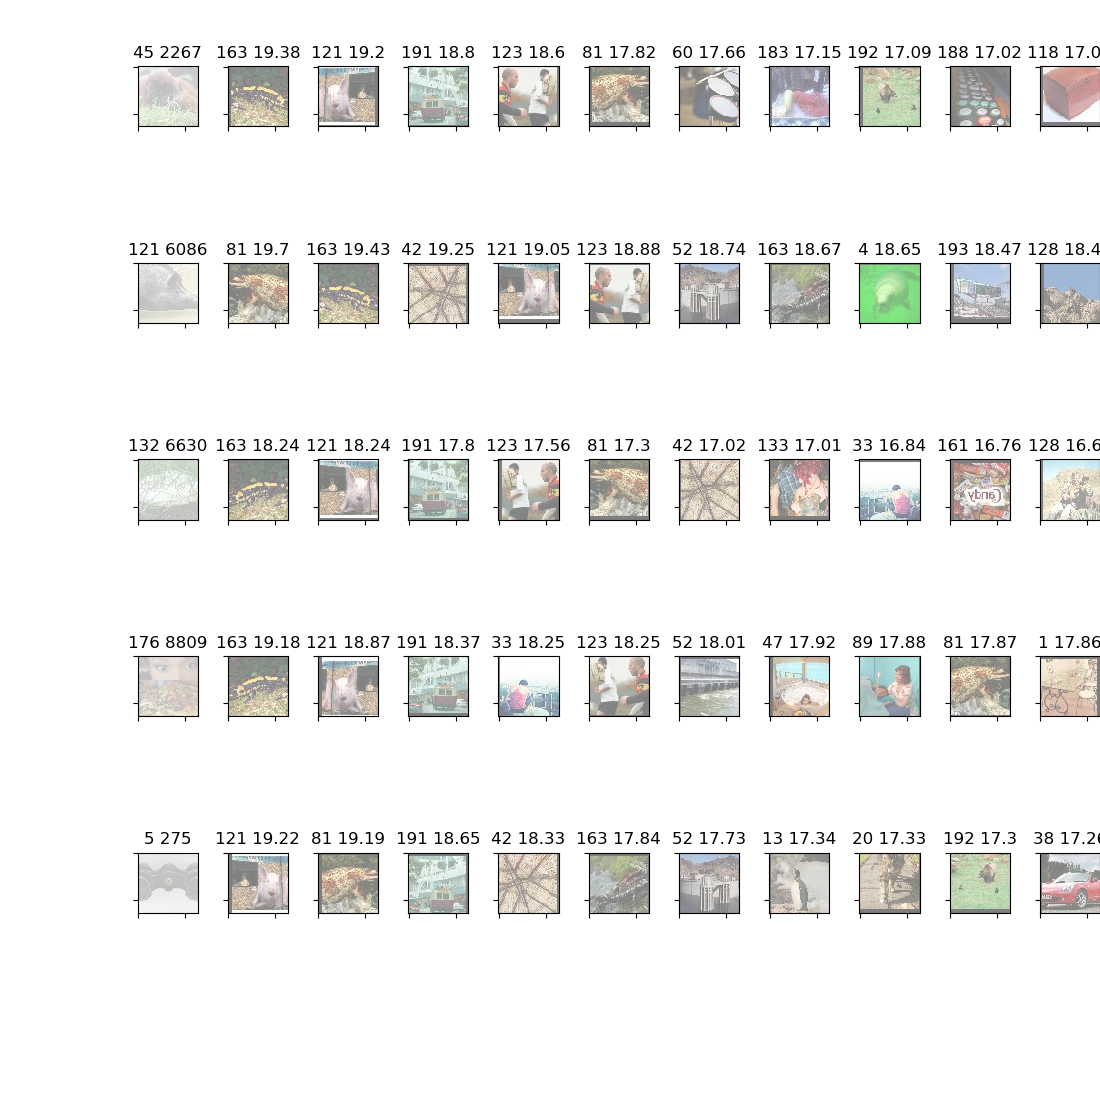
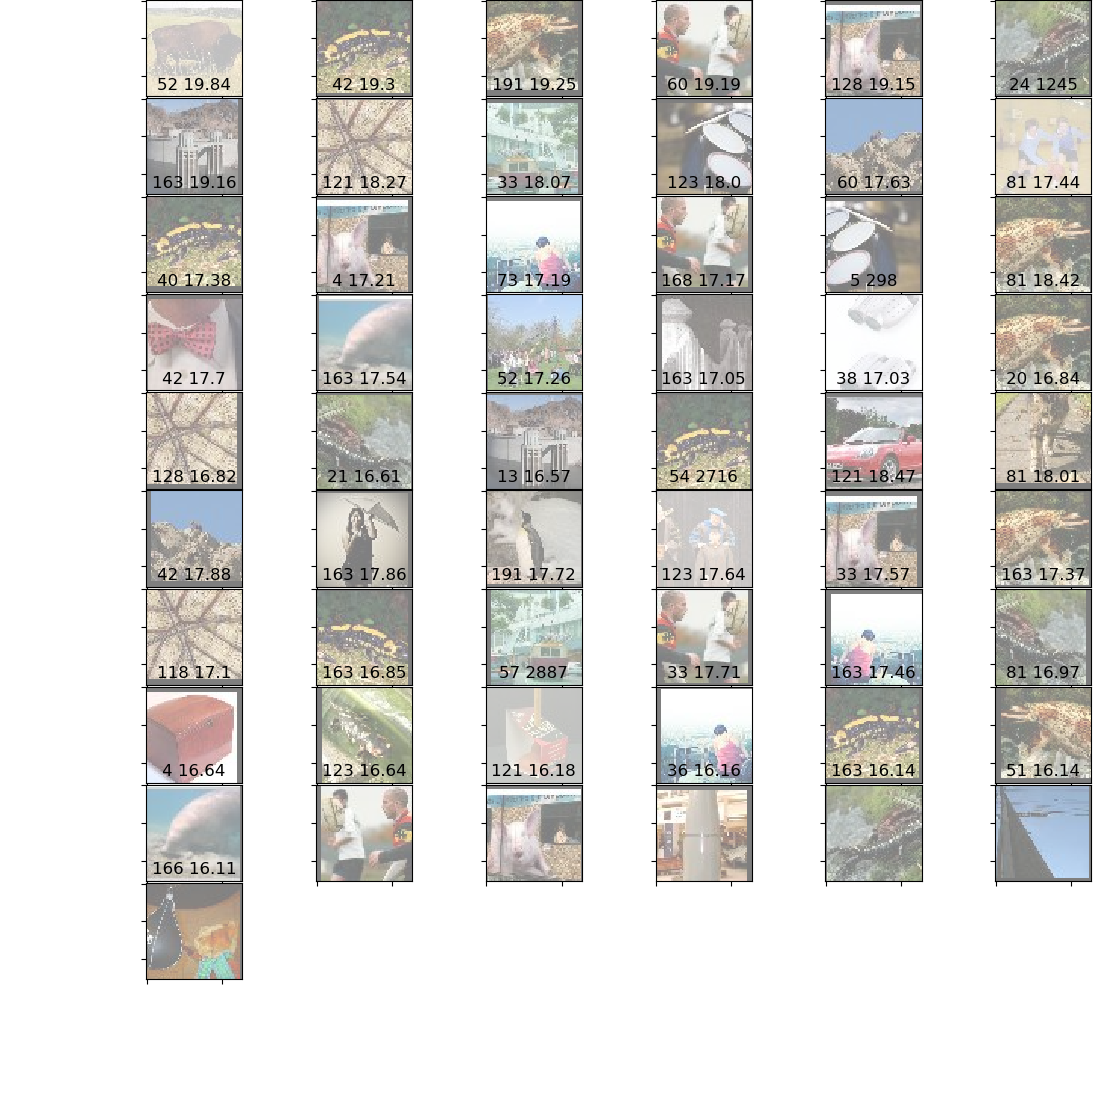
Added images

diff --git a/utils.py b/utils.py
@@ -263,7 +263,7 @@ class Data:
             test = torch.from_numpy(test).float().to(device)
             dist = torch.sum((train_embeddings - test).pow(2), dim=1)
             _, ind = sort_dist = torch.topk(dist, k, largest=False)
-            count = torch.sum(train_labels[ind] == test_labels[idx])
+            count = torch.sum(train_labels[ind] == test_labels[idx]).pow(0.5)
 
             if count.item() > 0:
                 tc += 1
@@ -311,15 +311,15 @@ class Data:
             dist = torch.sum((train_embeddings - test).pow(2), dim=1).pow(0.5)
             low_dist, ind = torch.topk(dist, k, largest=False)
             im = im.data.cpu().numpy()
-            im += 1.0
-            im /= 2.0
+            #im += 1.0
+            #im /= 2.0
             im = im.transpose(1, 2, 0) 
             top_images.append((im, im_class, im_idx))
             for idx, d in zip(ind, low_dist):
                 (im1, _, _), im_class1 = train_data_set.__getitem__(idx)
                 im1 = im1.data.cpu().numpy()
-                im1 += 1.0
-                im1 /= 2.0
+                #im1 += 1.0
+                #im1 /= 2.0
                 im1 = im1.transpose(1, 2, 0)
                 top_images.append((im1, im_class1, d.item()))
                 print("Match for", im_class, "is", im_class1, d.item())
@@ -331,15 +331,15 @@ class Data:
             dist = torch.sum((train_embeddings - test).pow(2), dim=1).pow(0.5)
             high_dist, ind = torch.topk(dist, k, largest=True)
             im = im.data.cpu().numpy()
-            im += 1.0
-            im /= 2.0
+            #im += 1.0
+            #im /= 2.0
             im = im.transpose(1, 2, 0)
             bottom_images.append((im, im_class, im_idx))
             for idx, d in zip(ind, high_dist):
                 (im1, _, _), im_class1 = train_data_set.__getitem__(idx)
                 im1 = im1.data.cpu().numpy()
-                im1 += 1.0
-                im1 /= 2.0
+                #im1 += 1.0
+                #im1 /= 2.0
                 im1 = im1.transpose(1, 2, 0)
                 print("Match for", im_class, "is", im_class1, d.item())
                 bottom_images.append((im1, im_class1, d.item()))

diff --git a/grapher.py b/grapher.py
@@ -23,18 +23,20 @@ import os
 def show_figures(images, title):
     #plt.figure(figsize=(8, 10))
     fig = plt.figure(figsize=(11, 11))
-    gs = gridspec.GridSpec(5, 11)
+    gs = gridspec.GridSpec(10, 6)
     gs.update(wspace=0.5, hspace=0.02, top=1, right=1)
+    count = 0
     for idx, val in enumerate(images):
         #plt.subplot(11 / 5 + 1, 5, idx + 1)
         #plt.subplots_adjust(top=0.99, bottom=0.01, hspace=1.5, wspace=0.4)
-        ax = plt.subplot(gs[idx])
+        ax = plt.subplot(gs[idx + count ])
+        if idx + 1 % 11 == 0:
+            count += 1
         ax.set_xticklabels([])
         ax.set_yticklabels([])
         ax.set_aspect('equal')
         im, im_class, im_dist = val
         ax.title.set_text("{} {}".format(im_class, round(im_dist, 2)))
-        print(im.shape)
         plt.imshow(im)
     #plt.tight_layout()
     plt.savefig(title)
@@ -96,7 +98,7 @@ train_labels = np.load(
 test_labels = np.load(
     "embeddings/test_labels_{}_{}.npy".format(model.name, start_epoch)
 )
-print(data.knn_accuracy(train_embeddings, test_embeddings, train_labels, test_labels))
+#print(data.knn_accuracy(train_embeddings, test_embeddings, train_labels, test_labels))
 top, bottom = data.get_top_and_bottom(
     train_embeddings, test_embeddings, train_labels, test_labels
 )
